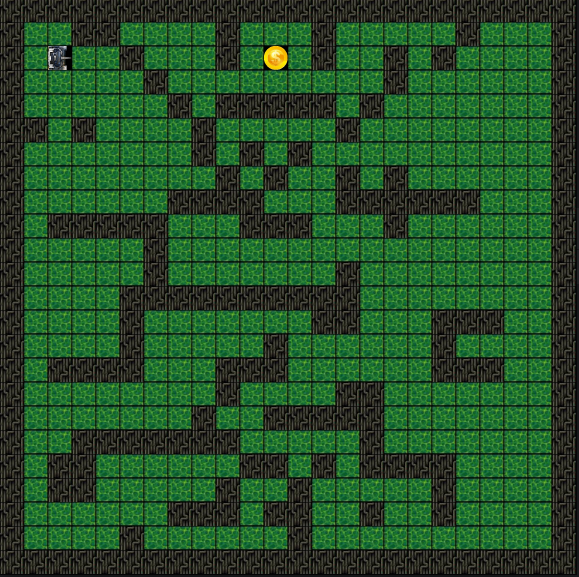
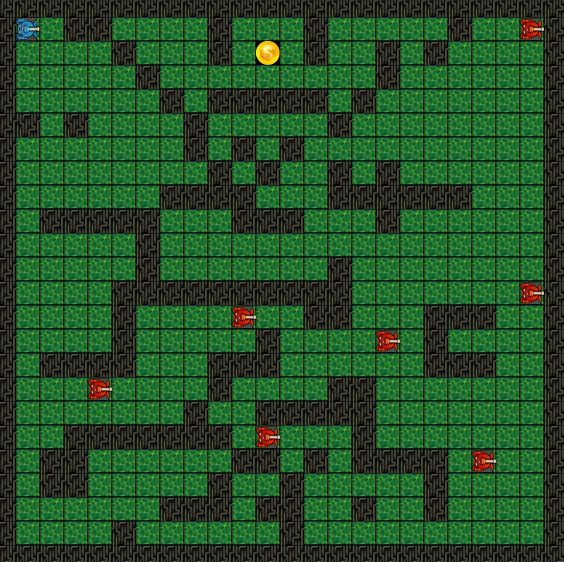
refactor(GameItem): Unification of item size
feat(GameBot): Basic bot generator with a random position

doc(assets): Gameplay update - screen with boots

diff --git a/tank-game/tank_game.py b/tank-game/tank_game.py
@@ -1,18 +1,23 @@
+import random
 import pygame
 
 from game_map import GameMap
-from player import Player, TankVariant
+from player import Player
+from game_item_variant import GameItemVariant
+from game_bot import GameBot
 from menu import Menu, EVENTS
 
 SCREEN_DISPLAY_WIDTH = 576
 SCREEN_DISPLAY_HEIGHT = 576
 TIME_DELAY = 90
+BOTS_COUNT = 7
 
 
 class TankGame:
-    _level_map = None
+    _map = None
     _menu = None
     _player = None
+    _boots = []
     _is_game_started = False
 
     def __init__(self):
@@ -28,22 +33,33 @@ class TankGame:
         element_width = self._screen.get_size()[0] / 24
         element_height = self._screen.get_size()[1] / 24
         element_size = (element_width, element_height)
-        self._level_map = GameMap(2, element_size).level_map
+        self._map = GameMap(2, element_size)
 
-        for row in self._level_map:
+        for row in self._map.level_map:
             for element in row:
                 if element is not None:
                     self._screen.blit(element.get_image(), element.position)
 
     def _create_boots(self):
-        pass
+        positions = list(
+            map(
+                lambda track: track.position,
+                self._map.get_map_sectors_by_variant(GameItemVariant.TRACK),
+            )
+        )
+
+        for _ in range(BOTS_COUNT):
+            position = random.choice(positions)
+            game_bot = GameBot(position)
+            self._screen.blit(game_bot.get_image(), game_bot.position)
+            positions.remove(position)
 
     def _create_player(self):
         element_width = self._screen.get_size()[0] / 24
         element_height = self._screen.get_size()[1] / 24
         element_size = (element_width, element_height)
 
-        self._player = Player(element_size, (48, 48))
+        self._player = Player(element_size)
         self._screen.blit(self._player.get_image(), self._player.position)
 
     def _create_menu(self):
@@ -64,7 +80,7 @@ class TankGame:
         self._init_game_loop()
 
     def _game_renderer(self):
-        self._player.on_move(self._screen, self._level_map)
+        self._player.on_move(self._screen, self._map.level_map)
 
     @staticmethod
     def _screen_renderer():
@@ -74,7 +90,6 @@ class TankGame:
     def _init_menu_loop(self):
 
         while self._menu.is_enabled:
-
             self._time.delay(TIME_DELAY)
             self._menu.renderer(pygame.event.get(), self._screen)
             self._screen_renderer()

diff --git a/tank-game/game_map.py b/tank-game/game_map.py
@@ -1,5 +1,4 @@
 from player import Player
-from bullet import Bullet
 from game_item_type import GameItemType
 from game_item import GameItem
 from brick import Brick
@@ -10,22 +9,25 @@ from constants import LEVEL_FILES
 
 
 class GameMap:
-    _player_tank: Player
-    _enemy_tanks: list[Player]
-    _bullets: list[Bullet] = []
     _level_map: list[list[GameItem]] = []
 
     def __init__(self, level, element_size):
         self._element_size = element_size
         self._level = level
-        self.load()
+        self._set_level_map()
 
     @property
     def level_map(self):
         return self._level_map
 
-    def load(self):
-        self._set_level_map()
+    def get_map_sectors_by_variant(self, variant):
+        elements = []
+        for row in self._level_map:
+            for element in row:
+                if element is not None and element.variant.value == variant.value:
+                    elements.append(element)
+
+        return elements
 
     def _set_level_map(self):
         level_file = open(LEVEL_FILES.get(self._level), "r", encoding="utf8")
@@ -43,15 +45,15 @@ class GameMap:
     def _get_item(self, code, position):
         match code:
             case GameItemType.BRICK.value:
-                return Brick(self._element_size, position)
+                return Brick(position)
             case GameItemType.TANK.value:
-                return Player(self._element_size, position)
+                return Player(position)
             case GameItemType.CUP.value:
-                return Cup(self._element_size, position)
+                return Cup(position)
             case GameItemType.PIPE.value:
-                return Pipe(self._element_size, position)
+                return Pipe(position)
             case GameItemType.GREEN.value:
-                return Green(self._element_size, position)
+                return Green(position)
             case _:
                 return None
 

diff --git a/tank-game/player.py b/tank-game/player.py
@@ -5,6 +5,7 @@ from tank import Tank, TankVariant
 from game_item_variant import GameItemVariant
 
 PLAYER_TANK_VARIANT = TankVariant.BLUE
+SINGLE_MOVE = 24
 
 tank_rotation_angle = dict(
     {
@@ -17,12 +18,8 @@ tank_rotation_angle = dict(
 
 
 class Player(Tank):
-    def __init__(self, size, position):
-        super().__init__(size, position, PLAYER_TANK_VARIANT)
-        self.variant = PLAYER_TANK_VARIANT
-        self._size = size
-        self._horizontal_size = size
-        self._vertical_size = (size[1], size[0])
+    def __init__(self, position):
+        super().__init__(position, PLAYER_TANK_VARIANT)
 
     def on_move(self, screen, level_map):
         keys = pygame.key.get_pressed()
@@ -42,19 +39,18 @@ class Player(Tank):
         y = int(self.position[1])
         match key:
             case pygame.K_UP:
-                y -= 24
+                y -= SINGLE_MOVE
             case pygame.K_DOWN:
-                y += 24
+                y += SINGLE_MOVE
             case pygame.K_LEFT:
-                x -= 24
+                x -= SINGLE_MOVE
             case pygame.K_RIGHT:
-                x += 24
+                x += SINGLE_MOVE
         return x, y
 
-    @staticmethod
-    def _collider(level_map, position):
-        row = math.ceil(position[0] / 24)
-        col = math.ceil(position[1] / 24)
+    def _collider(self, level_map, position):
+        row = math.ceil(position[0] / self.size[0])
+        col = math.ceil(position[1] / self.size[1])
 
         if level_map[col][row].variant == GameItemVariant.OBSTACLE:
             return False

diff --git a/tank-game/tank.py b/tank-game/tank.py
@@ -24,16 +24,13 @@ tank_rotation_angle = dict(
 
 
 class Tank(GameItem):
-    def __init__(self, size, position, variant):
-        super().__init__(size, position, GameItemVariant.TANK)
-        self.variant = variant
-        self._size = size
-        self._horizontal_size = size
-        self._vertical_size = (size[1], size[0])
+    def __init__(self, position, tank_variant):
+        super().__init__(position, GameItemVariant.TANK)
+        self.tank_variant = tank_variant
 
     def get_image(self):
         keys = pygame.key.get_pressed()
-        path = f"{TANK_IMG_PATH_PREFIX}/{self.variant.value}"
+        path = f"{TANK_IMG_PATH_PREFIX}/{self.tank_variant.value}"
         angle = 0
 
         for key in tank_rotation_angle:
@@ -41,4 +38,4 @@ class Tank(GameItem):
                 angle = tank_rotation_angle[key]
                 break
         img = pygame.transform.rotate(pygame.image.load(path), angle)
-        return pygame.transform.smoothscale(img, self._size)
+        return pygame.transform.smoothscale(img, self.size)

diff --git a/tank-game/game_bot.py b/tank-game/game_bot.py
@@ -1,20 +1,16 @@
-from game_item import GameItem
-
+from tank import Tank, TankVariant
 from bot_strategy_type import BotStrategyType
 from bot_strategy import BotStrategy
 from heuristic_bot_strategy import HeuristicBotStrategy
 from basic_bot_strategy import BasicBotStrategy
 
 
-class GameBot(GameItem):
+class GameBot(Tank):
     _strategy: BotStrategy
 
-    def __init__(self, size, position, variant, strategy):
-        super().__init__(size, position, variant)
+    def __init__(self, position, strategy=BotStrategyType.BASIC):
+        super().__init__(position, TankVariant.RED)
         self._set_strategy(strategy)
-
-    def get_image(self):
-        pass
 
     def _set_strategy(self, strategy):
         match strategy:

diff --git a/tank-game/brick.py b/tank-game/brick.py
@@ -5,8 +5,8 @@ from game_item_variant import GameItemVariant
 
 
 class Brick(GameItem):
-    def __init__(self, size, position):
-        super().__init__(size, position, GameItemVariant.OBSTACLE)
+    def __init__(self, position):
+        super().__init__(position, GameItemVariant.OBSTACLE)
 
     def get_image(self):
         return pygame.transform.smoothscale(

diff --git a/tank-game/pipe.py b/tank-game/pipe.py
@@ -5,8 +5,8 @@ from game_item_variant import GameItemVariant
 
 
 class Pipe(GameItem):
-    def __init__(self, size, position):
-        super().__init__(size, position, GameItemVariant.OBSTACLE)
+    def __init__(self, position):
+        super().__init__(position, GameItemVariant.OBSTACLE)
 
     def get_image(self):
         return pygame.transform.smoothscale(

diff --git a/tank-game/cup.py b/tank-game/cup.py
@@ -5,8 +5,8 @@ from game_item_variant import GameItemVariant
 
 
 class Cup(GameItem):
-    def __init__(self, size, position):
-        super().__init__(size, position, GameItemVariant.TROPHY)
+    def __init__(self, position):
+        super().__init__(position, GameItemVariant.TROPHY)
 
     def get_image(self):
         return pygame.transform.smoothscale(

diff --git a/tank-game/green.py b/tank-game/green.py
@@ -5,8 +5,8 @@ from game_item_variant import GameItemVariant
 
 
 class Green(GameItem):
-    def __init__(self, size, position):
-        super().__init__(size, position, GameItemVariant.TRACK)
+    def __init__(self, position):
+        super().__init__(position, GameItemVariant.TRACK)
 
     def get_image(self):
         return pygame.transform.smoothscale(

diff --git a/tank-game/bullet.py b/tank-game/bullet.py
@@ -5,8 +5,8 @@ from game_item_variant import GameItemVariant
 
 
 class Bullet(GameItem):
-    def __init__(self, size, position):
-        super().__init__(size, position, GameItemVariant.BULLET)
+    def __init__(self, position):
+        super().__init__(position, GameItemVariant.BULLET)
         self.x = position.x
         self.y = position.y
 

diff --git a/tank-game/game_item.py b/tank-game/game_item.py
@@ -2,8 +2,8 @@ from abc import abstractmethod
 
 
 class GameItem:
-    def __init__(self, size, position, variant):
-        self.size = size
+    def __init__(self, position, variant):
+        self.size = (24, 24)
         self.position = position
         self.variant = variant
 
